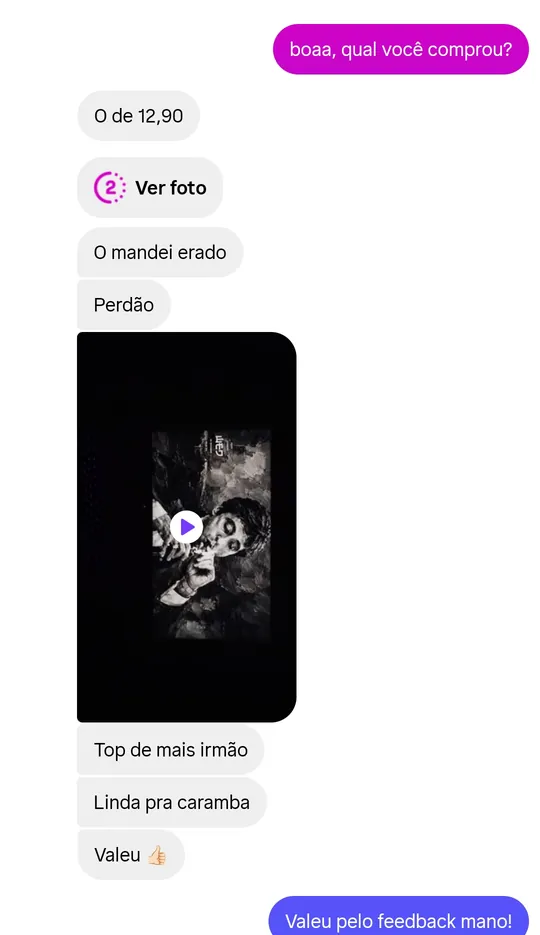
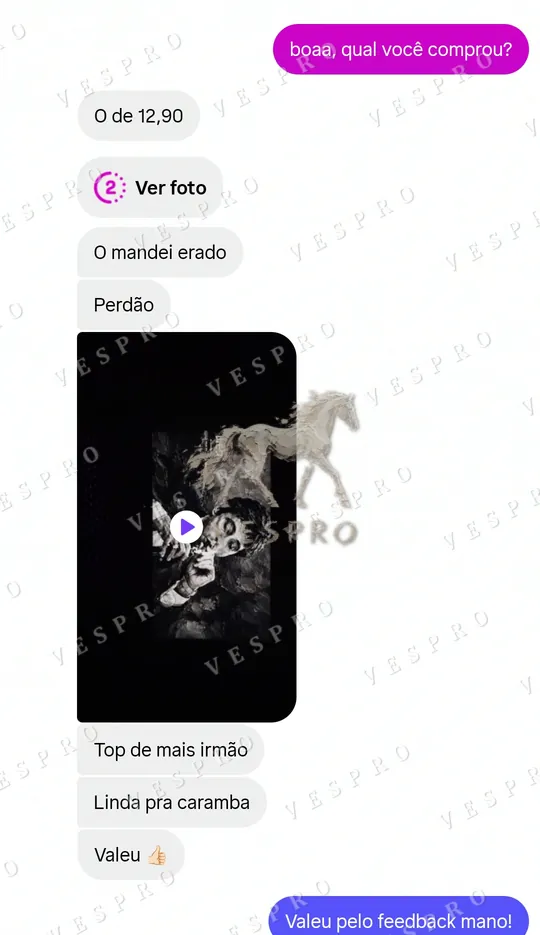
Comunidade: marca d'água nos prints e remove o depoimento do e-mail
- Marca d'água VESPRO também nas conversas (Instagram e WhatsApp)
- Remove o print da conversa do e-mail (depoimento-3)
- Sequência das duas fileiras repetida para não abrir buraco no loop em
  telas largas (Full HD e maiores)

diff --git a/index.html b/index.html
@@ -709,8 +709,8 @@ body{-webkit-touch-callout:none}
 </div>
 <!-- Mural em movimento: fotos (para a esquerda) e conversas reais de clientes (para a direita). Arraste para navegar. -->
 <div class="reveal cm-wrap" style="transition-delay: 0.18s;">
-  <div class="overflow-hidden" data-marquee="38" style="touch-action: pan-y;"><div class="cm-track cursor-grab active:cursor-grabbing will-change-transform"><div class="cm-item"><div class="cm-card cm-photo" style="--r: 1.7787;"><img src="assets/comunidade/cliente-setup-3-monitores.webp" alt="Cliente com wallpapers Vespro em três monitores" width="900" height="506" loading="lazy" decoding="async" draggable="false"><div class="absolute top-3 left-3"><span class="liquid-glass block rounded-full px-3 py-1 text-[10px] tracking-[1.5px] uppercase text-foreground/90">Foto de cliente</span></div></div></div><div class="cm-item"><div class="cm-card cm-photo" style="--r: 0.7503;"><img src="assets/comunidade/ambiente-notebook.webp?v=wm1" alt="Wallpaper Vespro em um notebook sobre a mesa" width="700" height="933" loading="lazy" decoding="async" draggable="false"><div class="absolute top-3 left-3"><span class="liquid-glass block rounded-full px-3 py-1 text-[10px] tracking-[1.5px] uppercase text-foreground/90">Notebook</span></div></div></div><div class="cm-item"><div class="cm-card cm-photo" style="--r: 1.3333;"><img src="assets/comunidade/cliente-setup-gato.webp" alt="Cliente com o wallpaper do gato em dois monitores" width="900" height="675" loading="lazy" decoding="async" draggable="false"><div class="absolute top-3 left-3"><span class="liquid-glass block rounded-full px-3 py-1 text-[10px] tracking-[1.5px] uppercase text-foreground/90">Foto de cliente</span></div></div></div><div class="cm-item"><div class="cm-card cm-photo" style="--r: 1.3333;"><img src="assets/comunidade/ambiente-setup.webp?v=wm1" alt="Wallpaper Vespro em um setup de dois monitores no quarto" width="1200" height="900" loading="lazy" decoding="async" draggable="false"><div class="absolute top-3 left-3"><span class="liquid-glass block rounded-full px-3 py-1 text-[10px] tracking-[1.5px] uppercase text-foreground/90">Setup</span></div></div></div><div class="cm-item"><div class="cm-card cm-photo" style="--r: 1.2821;"><img src="assets/comunidade/cliente-notebook-56.webp" alt="Cliente com wallpaper Vespro em preto e branco no notebook" width="900" height="702" loading="lazy" decoding="async" draggable="false"><div class="absolute top-3 left-3"><span class="liquid-glass block rounded-full px-3 py-1 text-[10px] tracking-[1.5px] uppercase text-foreground/90">Foto de cliente</span></div></div></div><div class="cm-item"><div class="cm-card cm-photo" style="--r: 0.7503;"><img src="assets/comunidade/ambiente-desktop.webp?v=wm1" alt="Wallpaper Vespro na área de trabalho de um notebook" width="700" height="933" loading="lazy" decoding="async" draggable="false"><div class="absolute top-3 left-3"><span class="liquid-glass block rounded-full px-3 py-1 text-[10px] tracking-[1.5px] uppercase text-foreground/90">Notebook</span></div></div></div><div class="cm-item"><div class="cm-card cm-photo" style="--r: 0.5636;"><img src="assets/comunidade/ambiente-tablet.webp?v=wm1" alt="Wallpaper Vespro na tela de um tablet" width="700" height="1242" loading="lazy" decoding="async" draggable="false"><div class="absolute top-3 left-3"><span class="liquid-glass block rounded-full px-3 py-1 text-[10px] tracking-[1.5px] uppercase text-foreground/90">Tablet</span></div></div></div><div class="cm-item" aria-hidden="true"><div class="cm-card cm-photo" style="--r: 1.7787;"><img src="assets/comunidade/cliente-setup-3-monitores.webp" alt="" width="900" height="506" loading="lazy" decoding="async" draggable="false"><div class="absolute top-3 left-3"><span class="liquid-glass block rounded-full px-3 py-1 text-[10px] tracking-[1.5px] uppercase text-foreground/90">Foto de cliente</span></div></div></div><div class="cm-item" aria-hidden="true"><div class="cm-card cm-photo" style="--r: 0.7503;"><img src="assets/comunidade/ambiente-notebook.webp?v=wm1" alt="" width="700" height="933" loading="lazy" decoding="async" draggable="false"><div class="absolute top-3 left-3"><span class="liquid-glass block rounded-full px-3 py-1 text-[10px] tracking-[1.5px] uppercase text-foreground/90">Notebook</span></div></div></div><div class="cm-item" aria-hidden="true"><div class="cm-card cm-photo" style="--r: 1.3333;"><img src="assets/comunidade/cliente-setup-gato.webp" alt="" width="900" height="675" loading="lazy" decoding="async" draggable="false"><div class="absolute top-3 left-3"><span class="liquid-glass block rounded-full px-3 py-1 text-[10px] tracking-[1.5px] uppercase text-foreground/90">Foto de cliente</span></div></div></div><div class="cm-item" aria-hidden="true"><div class="cm-card cm-photo" style="--r: 1.3333;"><img src="assets/comunidade/ambiente-setup.webp?v=wm1" alt="" width="1200" height="900" loading="lazy" decoding="async" draggable="false"><div class="absolute top-3 left-3"><span class="liquid-glass block rounded-full px-3 py-1 text-[10px] tracking-[1.5px] uppercase text-foreground/90">Setup</span></div></div></div><div class="cm-item" aria-hidden="true"><div class="cm-card cm-photo" style="--r: 1.2821;"><img src="assets/comunidade/cliente-notebook-56.webp" alt="" width="900" height="702" loading="lazy" decoding="async" draggable="false"><div class="absolute top-3 left-3"><span class="liquid-glass block rounded-full px-3 py-1 text-[10px] tracking-[1.5px] uppercase text-foreground/90">Foto de cliente</span></div></div></div><div class="cm-item" aria-hidden="true"><div class="cm-card cm-photo" style="--r: 0.7503;"><img src="assets/comunidade/ambiente-desktop.webp?v=wm1" alt="" width="700" height="933" loading="lazy" decoding="async" draggable="false"><div class="absolute top-3 left-3"><span class="liquid-glass block rounded-full px-3 py-1 text-[10px] tracking-[1.5px] uppercase text-foreground/90">Notebook</span></div></div></div><div class="cm-item" aria-hidden="true"><div class="cm-card cm-photo" style="--r: 0.5636;"><img src="assets/comunidade/ambiente-tablet.webp?v=wm1" alt="" width="700" height="1242" loading="lazy" decoding="async" draggable="false"><div class="absolute top-3 left-3"><span class="liquid-glass block rounded-full px-3 py-1 text-[10px] tracking-[1.5px] uppercase text-foreground/90">Tablet</span></div></div></div></div></div>
-  <div class="overflow-hidden cm-row2" data-marquee="-30" style="touch-action: pan-y;"><div class="cm-track cursor-grab active:cursor-grabbing will-change-transform"><div class="cm-item"><div class="cm-card cm-chat" style="--r: 0.8780;"><img src="assets/depoimentos/depoimento-3.webp" alt="Conversa no Instagram: cliente diz que curtiu muito a arte e vai pegar outros packs" width="540" height="615" loading="lazy" decoding="async" draggable="false"></div></div><div class="cm-item"><div class="cm-card cm-chat" style="--r: 0.8279;"><img src="assets/depoimentos/depoimento-1.webp" alt="Conversa no WhatsApp: cliente mostra o notebook com o wallpaper e diz que curtiu demais" width="606" height="732" loading="lazy" decoding="async" draggable="false"></div></div><div class="cm-item"><div class="cm-card cm-chat" style="--r: 0.5775;"><img src="assets/depoimentos/depoimento-4.webp" alt="Conversa no Instagram: cliente manda vídeo do wallpaper e diz que ficou lindo" width="540" height="935" loading="lazy" decoding="async" draggable="false"></div></div><div class="cm-item"><div class="cm-card cm-chat" style="--r: 0.9117;"><img src="assets/depoimentos/depoimento-2.webp?v=2" alt="Conversa no WhatsApp: cliente diz que o PC melhorou demais e elogia o produto" width="599" height="657" loading="lazy" decoding="async" draggable="false"></div></div><div class="cm-item"><div class="cm-card cm-chat" style="--r: 0.5775;"><img src="assets/depoimentos/depoimento-5.webp" alt="Conversa no Instagram: cliente mostra o notebook com o wallpaper da pantera" width="540" height="935" loading="lazy" decoding="async" draggable="false"></div></div><div class="cm-item"><div class="cm-card cm-chat" style="--r: 0.6000;"><img src="assets/depoimentos/depoimento-6.webp" alt="Conversa no Instagram: cliente diz que é o melhor wallpaper possível e manda foto do setup" width="540" height="900" loading="lazy" decoding="async" draggable="false"></div></div><div class="cm-item" aria-hidden="true"><div class="cm-card cm-chat" style="--r: 0.8780;"><img src="assets/depoimentos/depoimento-3.webp" alt="" width="540" height="615" loading="lazy" decoding="async" draggable="false"></div></div><div class="cm-item" aria-hidden="true"><div class="cm-card cm-chat" style="--r: 0.8279;"><img src="assets/depoimentos/depoimento-1.webp" alt="" width="606" height="732" loading="lazy" decoding="async" draggable="false"></div></div><div class="cm-item" aria-hidden="true"><div class="cm-card cm-chat" style="--r: 0.5775;"><img src="assets/depoimentos/depoimento-4.webp" alt="" width="540" height="935" loading="lazy" decoding="async" draggable="false"></div></div><div class="cm-item" aria-hidden="true"><div class="cm-card cm-chat" style="--r: 0.9117;"><img src="assets/depoimentos/depoimento-2.webp?v=2" alt="" width="599" height="657" loading="lazy" decoding="async" draggable="false"></div></div><div class="cm-item" aria-hidden="true"><div class="cm-card cm-chat" style="--r: 0.5775;"><img src="assets/depoimentos/depoimento-5.webp" alt="" width="540" height="935" loading="lazy" decoding="async" draggable="false"></div></div><div class="cm-item" aria-hidden="true"><div class="cm-card cm-chat" style="--r: 0.6000;"><img src="assets/depoimentos/depoimento-6.webp" alt="" width="540" height="900" loading="lazy" decoding="async" draggable="false"></div></div></div></div>
+  <div class="overflow-hidden" data-marquee="38" style="touch-action: pan-y;"><div class="cm-track cursor-grab active:cursor-grabbing will-change-transform"><div class="cm-item"><div class="cm-card cm-photo" style="--r: 1.7787;"><img src="assets/comunidade/cliente-setup-3-monitores.webp" alt="Cliente com wallpapers Vespro em três monitores" width="900" height="506" loading="lazy" decoding="async" draggable="false"><div class="absolute top-3 left-3"><span class="liquid-glass block rounded-full px-3 py-1 text-[10px] tracking-[1.5px] uppercase text-foreground/90">Foto de cliente</span></div></div></div><div class="cm-item"><div class="cm-card cm-photo" style="--r: 0.7503;"><img src="assets/comunidade/ambiente-notebook.webp?v=wm1" alt="Wallpaper Vespro em um notebook sobre a mesa" width="700" height="933" loading="lazy" decoding="async" draggable="false"><div class="absolute top-3 left-3"><span class="liquid-glass block rounded-full px-3 py-1 text-[10px] tracking-[1.5px] uppercase text-foreground/90">Notebook</span></div></div></div><div class="cm-item"><div class="cm-card cm-photo" style="--r: 1.3333;"><img src="assets/comunidade/cliente-setup-gato.webp" alt="Cliente com o wallpaper do gato em dois monitores" width="900" height="675" loading="lazy" decoding="async" draggable="false"><div class="absolute top-3 left-3"><span class="liquid-glass block rounded-full px-3 py-1 text-[10px] tracking-[1.5px] uppercase text-foreground/90">Foto de cliente</span></div></div></div><div class="cm-item"><div class="cm-card cm-photo" style="--r: 1.3333;"><img src="assets/comunidade/ambiente-setup.webp?v=wm1" alt="Wallpaper Vespro em um setup de dois monitores no quarto" width="1200" height="900" loading="lazy" decoding="async" draggable="false"><div class="absolute top-3 left-3"><span class="liquid-glass block rounded-full px-3 py-1 text-[10px] tracking-[1.5px] uppercase text-foreground/90">Setup</span></div></div></div><div class="cm-item"><div class="cm-card cm-photo" style="--r: 1.2821;"><img src="assets/comunidade/cliente-notebook-56.webp" alt="Cliente com wallpaper Vespro em preto e branco no notebook" width="900" height="702" loading="lazy" decoding="async" draggable="false"><div class="absolute top-3 left-3"><span class="liquid-glass block rounded-full px-3 py-1 text-[10px] tracking-[1.5px] uppercase text-foreground/90">Foto de cliente</span></div></div></div><div class="cm-item"><div class="cm-card cm-photo" style="--r: 0.7503;"><img src="assets/comunidade/ambiente-desktop.webp?v=wm1" alt="Wallpaper Vespro na área de trabalho de um notebook" width="700" height="933" loading="lazy" decoding="async" draggable="false"><div class="absolute top-3 left-3"><span class="liquid-glass block rounded-full px-3 py-1 text-[10px] tracking-[1.5px] uppercase text-foreground/90">Notebook</span></div></div></div><div class="cm-item"><div class="cm-card cm-photo" style="--r: 0.5636;"><img src="assets/comunidade/ambiente-tablet.webp?v=wm1" alt="Wallpaper Vespro na tela de um tablet" width="700" height="1242" loading="lazy" decoding="async" draggable="false"><div class="absolute top-3 left-3"><span class="liquid-glass block rounded-full px-3 py-1 text-[10px] tracking-[1.5px] uppercase text-foreground/90">Tablet</span></div></div></div><div class="cm-item" aria-hidden="true"><div class="cm-card cm-photo" style="--r: 1.7787;"><img src="assets/comunidade/cliente-setup-3-monitores.webp" alt="" width="900" height="506" loading="lazy" decoding="async" draggable="false"><div class="absolute top-3 left-3"><span class="liquid-glass block rounded-full px-3 py-1 text-[10px] tracking-[1.5px] uppercase text-foreground/90">Foto de cliente</span></div></div></div><div class="cm-item" aria-hidden="true"><div class="cm-card cm-photo" style="--r: 0.7503;"><img src="assets/comunidade/ambiente-notebook.webp?v=wm1" alt="" width="700" height="933" loading="lazy" decoding="async" draggable="false"><div class="absolute top-3 left-3"><span class="liquid-glass block rounded-full px-3 py-1 text-[10px] tracking-[1.5px] uppercase text-foreground/90">Notebook</span></div></div></div><div class="cm-item" aria-hidden="true"><div class="cm-card cm-photo" style="--r: 1.3333;"><img src="assets/comunidade/cliente-setup-gato.webp" alt="" width="900" height="675" loading="lazy" decoding="async" draggable="false"><div class="absolute top-3 left-3"><span class="liquid-glass block rounded-full px-3 py-1 text-[10px] tracking-[1.5px] uppercase text-foreground/90">Foto de cliente</span></div></div></div><div class="cm-item" aria-hidden="true"><div class="cm-card cm-photo" style="--r: 1.3333;"><img src="assets/comunidade/ambiente-setup.webp?v=wm1" alt="" width="1200" height="900" loading="lazy" decoding="async" draggable="false"><div class="absolute top-3 left-3"><span class="liquid-glass block rounded-full px-3 py-1 text-[10px] tracking-[1.5px] uppercase text-foreground/90">Setup</span></div></div></div><div class="cm-item" aria-hidden="true"><div class="cm-card cm-photo" style="--r: 1.2821;"><img src="assets/comunidade/cliente-notebook-56.webp" alt="" width="900" height="702" loading="lazy" decoding="async" draggable="false"><div class="absolute top-3 left-3"><span class="liquid-glass block rounded-full px-3 py-1 text-[10px] tracking-[1.5px] uppercase text-foreground/90">Foto de cliente</span></div></div></div><div class="cm-item" aria-hidden="true"><div class="cm-card cm-photo" style="--r: 0.7503;"><img src="assets/comunidade/ambiente-desktop.webp?v=wm1" alt="" width="700" height="933" loading="lazy" decoding="async" draggable="false"><div class="absolute top-3 left-3"><span class="liquid-glass block rounded-full px-3 py-1 text-[10px] tracking-[1.5px] uppercase text-foreground/90">Notebook</span></div></div></div><div class="cm-item" aria-hidden="true"><div class="cm-card cm-photo" style="--r: 0.5636;"><img src="assets/comunidade/ambiente-tablet.webp?v=wm1" alt="" width="700" height="1242" loading="lazy" decoding="async" draggable="false"><div class="absolute top-3 left-3"><span class="liquid-glass block rounded-full px-3 py-1 text-[10px] tracking-[1.5px] uppercase text-foreground/90">Tablet</span></div></div></div><div class="cm-item" aria-hidden="true"><div class="cm-card cm-photo" style="--r: 1.7787;"><img src="assets/comunidade/cliente-setup-3-monitores.webp" alt="" width="900" height="506" loading="lazy" decoding="async" draggable="false"><div class="absolute top-3 left-3"><span class="liquid-glass block rounded-full px-3 py-1 text-[10px] tracking-[1.5px] uppercase text-foreground/90">Foto de cliente</span></div></div></div><div class="cm-item" aria-hidden="true"><div class="cm-card cm-photo" style="--r: 0.7503;"><img src="assets/comunidade/ambiente-notebook.webp?v=wm1" alt="" width="700" height="933" loading="lazy" decoding="async" draggable="false"><div class="absolute top-3 left-3"><span class="liquid-glass block rounded-full px-3 py-1 text-[10px] tracking-[1.5px] uppercase text-foreground/90">Notebook</span></div></div></div><div class="cm-item" aria-hidden="true"><div class="cm-card cm-photo" style="--r: 1.3333;"><img src="assets/comunidade/cliente-setup-gato.webp" alt="" width="900" height="675" loading="lazy" decoding="async" draggable="false"><div class="absolute top-3 left-3"><span class="liquid-glass block rounded-full px-3 py-1 text-[10px] tracking-[1.5px] uppercase text-foreground/90">Foto de cliente</span></div></div></div><div class="cm-item" aria-hidden="true"><div class="cm-card cm-photo" style="--r: 1.3333;"><img src="assets/comunidade/ambiente-setup.webp?v=wm1" alt="" width="1200" height="900" loading="lazy" decoding="async" draggable="false"><div class="absolute top-3 left-3"><span class="liquid-glass block rounded-full px-3 py-1 text-[10px] tracking-[1.5px] uppercase text-foreground/90">Setup</span></div></div></div><div class="cm-item" aria-hidden="true"><div class="cm-card cm-photo" style="--r: 1.2821;"><img src="assets/comunidade/cliente-notebook-56.webp" alt="" width="900" height="702" loading="lazy" decoding="async" draggable="false"><div class="absolute top-3 left-3"><span class="liquid-glass block rounded-full px-3 py-1 text-[10px] tracking-[1.5px] uppercase text-foreground/90">Foto de cliente</span></div></div></div><div class="cm-item" aria-hidden="true"><div class="cm-card cm-photo" style="--r: 0.7503;"><img src="assets/comunidade/ambiente-desktop.webp?v=wm1" alt="" width="700" height="933" loading="lazy" decoding="async" draggable="false"><div class="absolute top-3 left-3"><span class="liquid-glass block rounded-full px-3 py-1 text-[10px] tracking-[1.5px] uppercase text-foreground/90">Notebook</span></div></div></div><div class="cm-item" aria-hidden="true"><div class="cm-card cm-photo" style="--r: 0.5636;"><img src="assets/comunidade/ambiente-tablet.webp?v=wm1" alt="" width="700" height="1242" loading="lazy" decoding="async" draggable="false"><div class="absolute top-3 left-3"><span class="liquid-glass block rounded-full px-3 py-1 text-[10px] tracking-[1.5px] uppercase text-foreground/90">Tablet</span></div></div></div><div class="cm-item" aria-hidden="true"><div class="cm-card cm-photo" style="--r: 1.7787;"><img src="assets/comunidade/cliente-setup-3-monitores.webp" alt="" width="900" height="506" loading="lazy" decoding="async" draggable="false"><div class="absolute top-3 left-3"><span class="liquid-glass block rounded-full px-3 py-1 text-[10px] tracking-[1.5px] uppercase text-foreground/90">Foto de cliente</span></div></div></div><div class="cm-item" aria-hidden="true"><div class="cm-card cm-photo" style="--r: 0.7503;"><img src="assets/comunidade/ambiente-notebook.webp?v=wm1" alt="" width="700" height="933" loading="lazy" decoding="async" draggable="false"><div class="absolute top-3 left-3"><span class="liquid-glass block rounded-full px-3 py-1 text-[10px] tracking-[1.5px] uppercase text-foreground/90">Notebook</span></div></div></div><div class="cm-item" aria-hidden="true"><div class="cm-card cm-photo" style="--r: 1.3333;"><img src="assets/comunidade/cliente-setup-gato.webp" alt="" width="900" height="675" loading="lazy" decoding="async" draggable="false"><div class="absolute top-3 left-3"><span class="liquid-glass block rounded-full px-3 py-1 text-[10px] tracking-[1.5px] uppercase text-foreground/90">Foto de cliente</span></div></div></div><div class="cm-item" aria-hidden="true"><div class="cm-card cm-photo" style="--r: 1.3333;"><img src="assets/comunidade/ambiente-setup.webp?v=wm1" alt="" width="1200" height="900" loading="lazy" decoding="async" draggable="false"><div class="absolute top-3 left-3"><span class="liquid-glass block rounded-full px-3 py-1 text-[10px] tracking-[1.5px] uppercase text-foreground/90">Setup</span></div></div></div><div class="cm-item" aria-hidden="true"><div class="cm-card cm-photo" style="--r: 1.2821;"><img src="assets/comunidade/cliente-notebook-56.webp" alt="" width="900" height="702" loading="lazy" decoding="async" draggable="false"><div class="absolute top-3 left-3"><span class="liquid-glass block rounded-full px-3 py-1 text-[10px] tracking-[1.5px] uppercase text-foreground/90">Foto de cliente</span></div></div></div><div class="cm-item" aria-hidden="true"><div class="cm-card cm-photo" style="--r: 0.7503;"><img src="assets/comunidade/ambiente-desktop.webp?v=wm1" alt="" width="700" height="933" loading="lazy" decoding="async" draggable="false"><div class="absolute top-3 left-3"><span class="liquid-glass block rounded-full px-3 py-1 text-[10px] tracking-[1.5px] uppercase text-foreground/90">Notebook</span></div></div></div><div class="cm-item" aria-hidden="true"><div class="cm-card cm-photo" style="--r: 0.5636;"><img src="assets/comunidade/ambiente-tablet.webp?v=wm1" alt="" width="700" height="1242" loading="lazy" decoding="async" draggable="false"><div class="absolute top-3 left-3"><span class="liquid-glass block rounded-full px-3 py-1 text-[10px] tracking-[1.5px] uppercase text-foreground/90">Tablet</span></div></div></div></div></div>
+  <div class="overflow-hidden cm-row2" data-marquee="-30" style="touch-action: pan-y;"><div class="cm-track cursor-grab active:cursor-grabbing will-change-transform"><div class="cm-item"><div class="cm-card cm-chat" style="--r: 0.8279;"><img src="assets/depoimentos/depoimento-1.webp?v=wm1" alt="Conversa no WhatsApp: cliente mostra o notebook com o wallpaper e diz que curtiu demais" width="606" height="732" loading="lazy" decoding="async" draggable="false"></div></div><div class="cm-item"><div class="cm-card cm-chat" style="--r: 0.5775;"><img src="assets/depoimentos/depoimento-4.webp?v=wm1" alt="Conversa no Instagram: cliente manda vídeo do wallpaper e diz que ficou lindo" width="540" height="935" loading="lazy" decoding="async" draggable="false"></div></div><div class="cm-item"><div class="cm-card cm-chat" style="--r: 0.9117;"><img src="assets/depoimentos/depoimento-2.webp?v=wm1" alt="Conversa no WhatsApp: cliente diz que o PC melhorou demais e elogia o produto" width="599" height="657" loading="lazy" decoding="async" draggable="false"></div></div><div class="cm-item"><div class="cm-card cm-chat" style="--r: 0.5775;"><img src="assets/depoimentos/depoimento-5.webp?v=wm1" alt="Conversa no Instagram: cliente mostra o notebook com o wallpaper da pantera" width="540" height="935" loading="lazy" decoding="async" draggable="false"></div></div><div class="cm-item"><div class="cm-card cm-chat" style="--r: 0.6000;"><img src="assets/depoimentos/depoimento-6.webp?v=wm1" alt="Conversa no Instagram: cliente diz que é o melhor wallpaper possível e manda foto do setup" width="540" height="900" loading="lazy" decoding="async" draggable="false"></div></div><div class="cm-item" aria-hidden="true"><div class="cm-card cm-chat" style="--r: 0.8279;"><img src="assets/depoimentos/depoimento-1.webp?v=wm1" alt="" width="606" height="732" loading="lazy" decoding="async" draggable="false"></div></div><div class="cm-item" aria-hidden="true"><div class="cm-card cm-chat" style="--r: 0.5775;"><img src="assets/depoimentos/depoimento-4.webp?v=wm1" alt="" width="540" height="935" loading="lazy" decoding="async" draggable="false"></div></div><div class="cm-item" aria-hidden="true"><div class="cm-card cm-chat" style="--r: 0.9117;"><img src="assets/depoimentos/depoimento-2.webp?v=wm1" alt="" width="599" height="657" loading="lazy" decoding="async" draggable="false"></div></div><div class="cm-item" aria-hidden="true"><div class="cm-card cm-chat" style="--r: 0.5775;"><img src="assets/depoimentos/depoimento-5.webp?v=wm1" alt="" width="540" height="935" loading="lazy" decoding="async" draggable="false"></div></div><div class="cm-item" aria-hidden="true"><div class="cm-card cm-chat" style="--r: 0.6000;"><img src="assets/depoimentos/depoimento-6.webp?v=wm1" alt="" width="540" height="900" loading="lazy" decoding="async" draggable="false"></div></div><div class="cm-item" aria-hidden="true"><div class="cm-card cm-chat" style="--r: 0.8279;"><img src="assets/depoimentos/depoimento-1.webp?v=wm1" alt="" width="606" height="732" loading="lazy" decoding="async" draggable="false"></div></div><div class="cm-item" aria-hidden="true"><div class="cm-card cm-chat" style="--r: 0.5775;"><img src="assets/depoimentos/depoimento-4.webp?v=wm1" alt="" width="540" height="935" loading="lazy" decoding="async" draggable="false"></div></div><div class="cm-item" aria-hidden="true"><div class="cm-card cm-chat" style="--r: 0.9117;"><img src="assets/depoimentos/depoimento-2.webp?v=wm1" alt="" width="599" height="657" loading="lazy" decoding="async" draggable="false"></div></div><div class="cm-item" aria-hidden="true"><div class="cm-card cm-chat" style="--r: 0.5775;"><img src="assets/depoimentos/depoimento-5.webp?v=wm1" alt="" width="540" height="935" loading="lazy" decoding="async" draggable="false"></div></div><div class="cm-item" aria-hidden="true"><div class="cm-card cm-chat" style="--r: 0.6000;"><img src="assets/depoimentos/depoimento-6.webp?v=wm1" alt="" width="540" height="900" loading="lazy" decoding="async" draggable="false"></div></div><div class="cm-item" aria-hidden="true"><div class="cm-card cm-chat" style="--r: 0.8279;"><img src="assets/depoimentos/depoimento-1.webp?v=wm1" alt="" width="606" height="732" loading="lazy" decoding="async" draggable="false"></div></div><div class="cm-item" aria-hidden="true"><div class="cm-card cm-chat" style="--r: 0.5775;"><img src="assets/depoimentos/depoimento-4.webp?v=wm1" alt="" width="540" height="935" loading="lazy" decoding="async" draggable="false"></div></div><div class="cm-item" aria-hidden="true"><div class="cm-card cm-chat" style="--r: 0.9117;"><img src="assets/depoimentos/depoimento-2.webp?v=wm1" alt="" width="599" height="657" loading="lazy" decoding="async" draggable="false"></div></div><div class="cm-item" aria-hidden="true"><div class="cm-card cm-chat" style="--r: 0.5775;"><img src="assets/depoimentos/depoimento-5.webp?v=wm1" alt="" width="540" height="935" loading="lazy" decoding="async" draggable="false"></div></div><div class="cm-item" aria-hidden="true"><div class="cm-card cm-chat" style="--r: 0.6000;"><img src="assets/depoimentos/depoimento-6.webp?v=wm1" alt="" width="540" height="900" loading="lazy" decoding="async" draggable="false"></div></div></div></div>
 </div>
 <div class="max-w-6xl mx-auto">
   <div class="reveal" style="transition-delay: 0.22s;"><p class="text-muted-foreground text-sm text-center mt-10">Tirou foto da sua tela? Manda no WhatsApp que a gente coloca no mural.<br><span class="text-xs text-muted-foreground/70">Conversas e fotos marcadas como “foto de cliente” são reais (dados pessoais ocultados). As demais fotos de ambiente são ilustrativas.</span></p></div>
